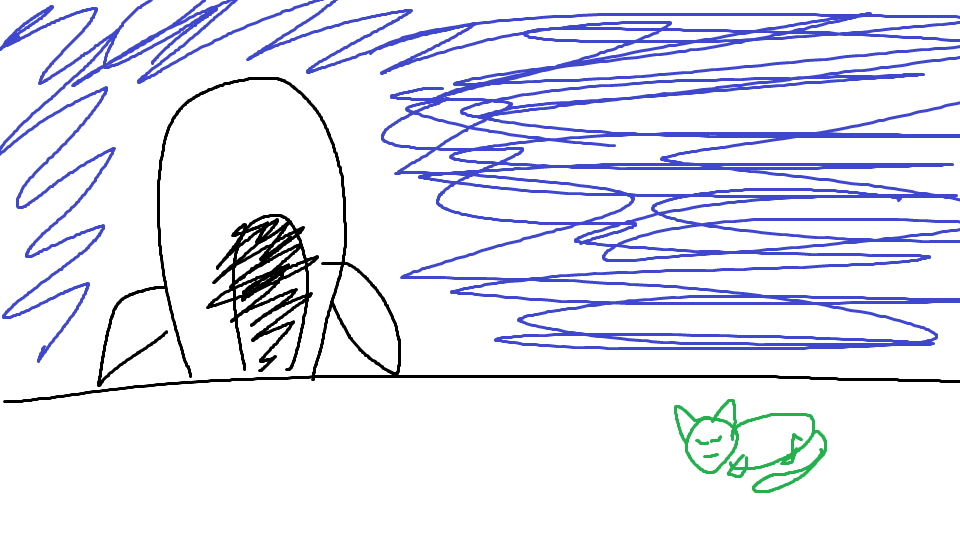
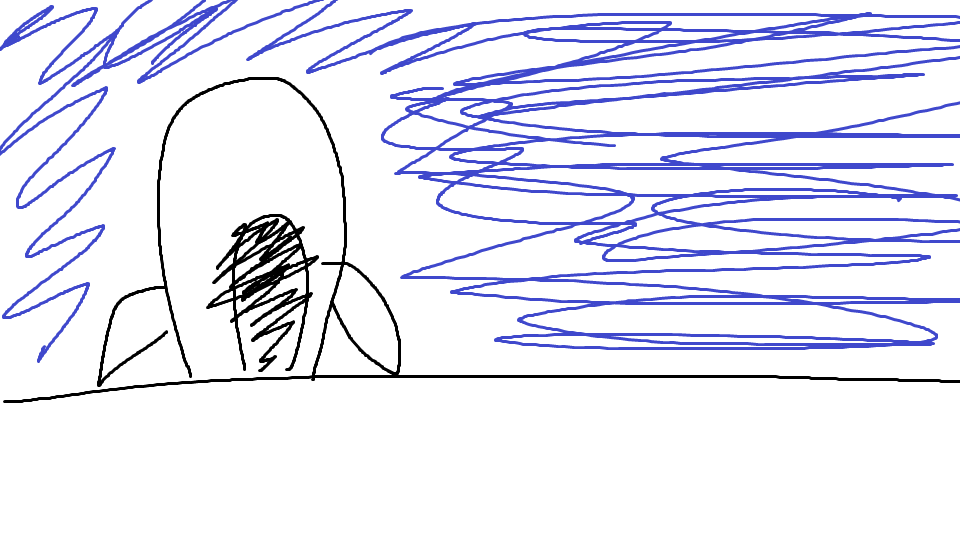
Changed cat to be an image instead of part of the room background. Created rectangle for rocket to allow it to be clicked

Changed region(s): [[0.6875, 0.7407, 0.875, 0.9185], [0.8125, 0.7407, 0.8438, 0.7704]]

diff --git a/src/main/java/nz/ac/auckland/se206/controllers/MainRoomController.java b/src/main/java/nz/ac/auckland/se206/controllers/MainRoomController.java
@@ -8,6 +8,7 @@ import javafx.scene.input.KeyEvent;
 import javafx.scene.input.MouseEvent;
 import javafx.scene.layout.Pane;
 import javafx.scene.shape.Circle;
+import javafx.scene.shape.Rectangle;
 import nz.ac.auckland.se206.App;
 import nz.ac.auckland.se206.GameState;
 
@@ -16,7 +17,9 @@ public class MainRoomController {
 
   @FXML private Pane room;
   @FXML private ImageView roomImage;
+  @FXML private ImageView catImage;
   @FXML private Circle catInitial;
+  @FXML private Rectangle rocket;
 
   /** Initializes the room view, it is called when the room loads. */
   public void initialize() {
@@ -90,5 +93,15 @@ public class MainRoomController {
   @FXML
   public void catInitialise(MouseEvent catInitialise) {
     System.out.println("cat first clicked");
+  }
+
+  /**
+   * Handles the click event on the rocket.
+   *
+   * @param event the mouse event
+   */
+  @FXML
+  public void clickRocket(MouseEvent event) {
+    System.out.println("rocket clicked");
   }
 }
